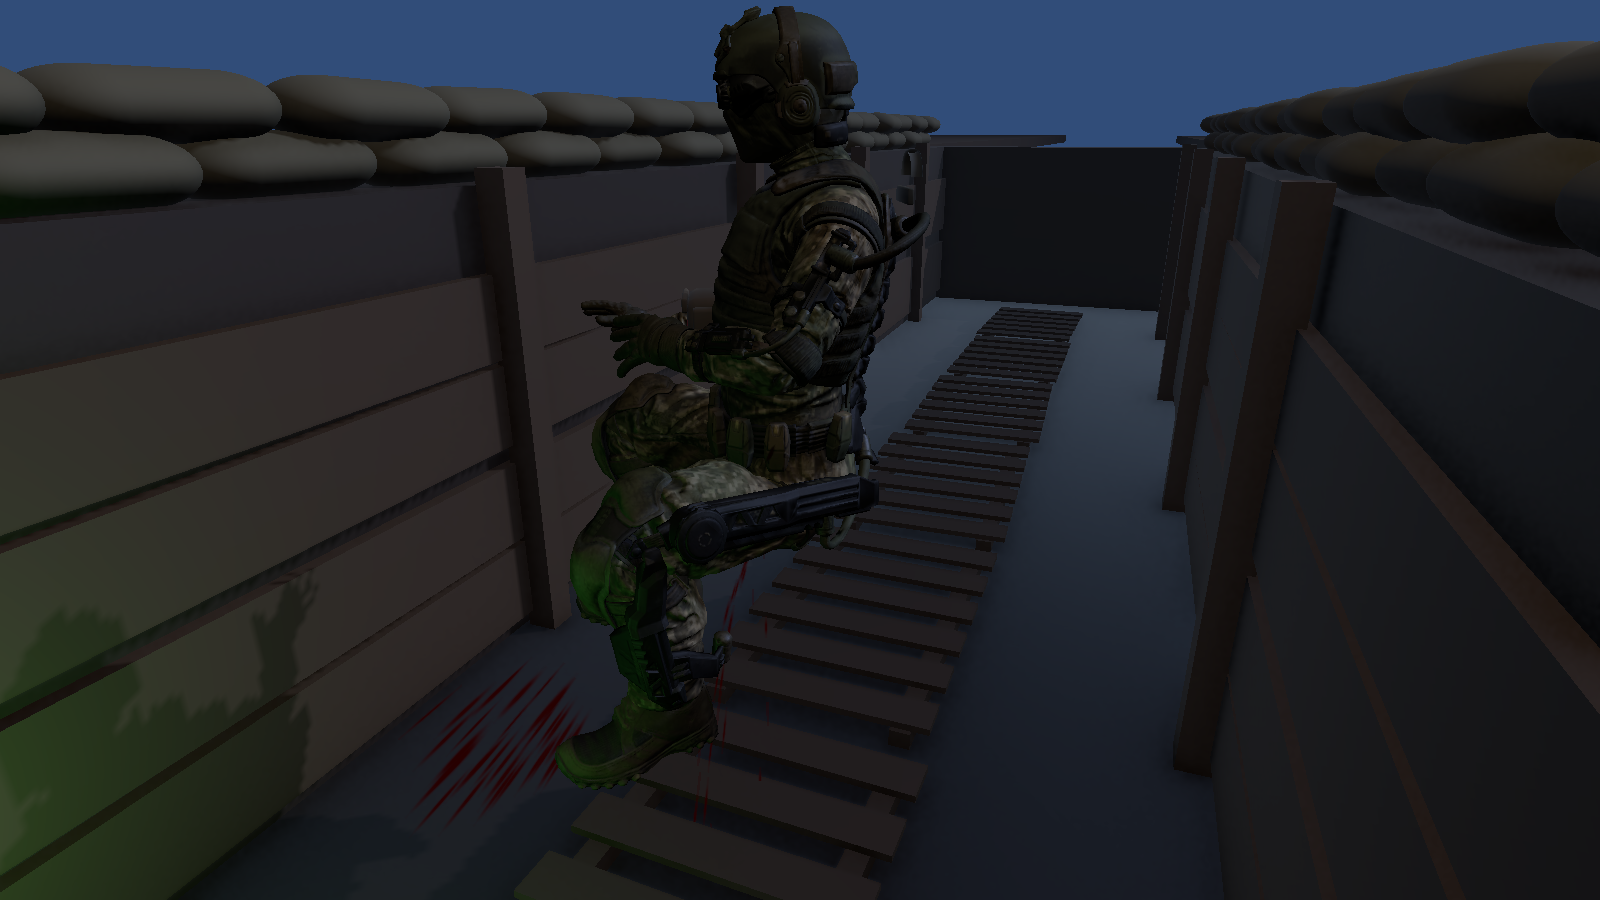
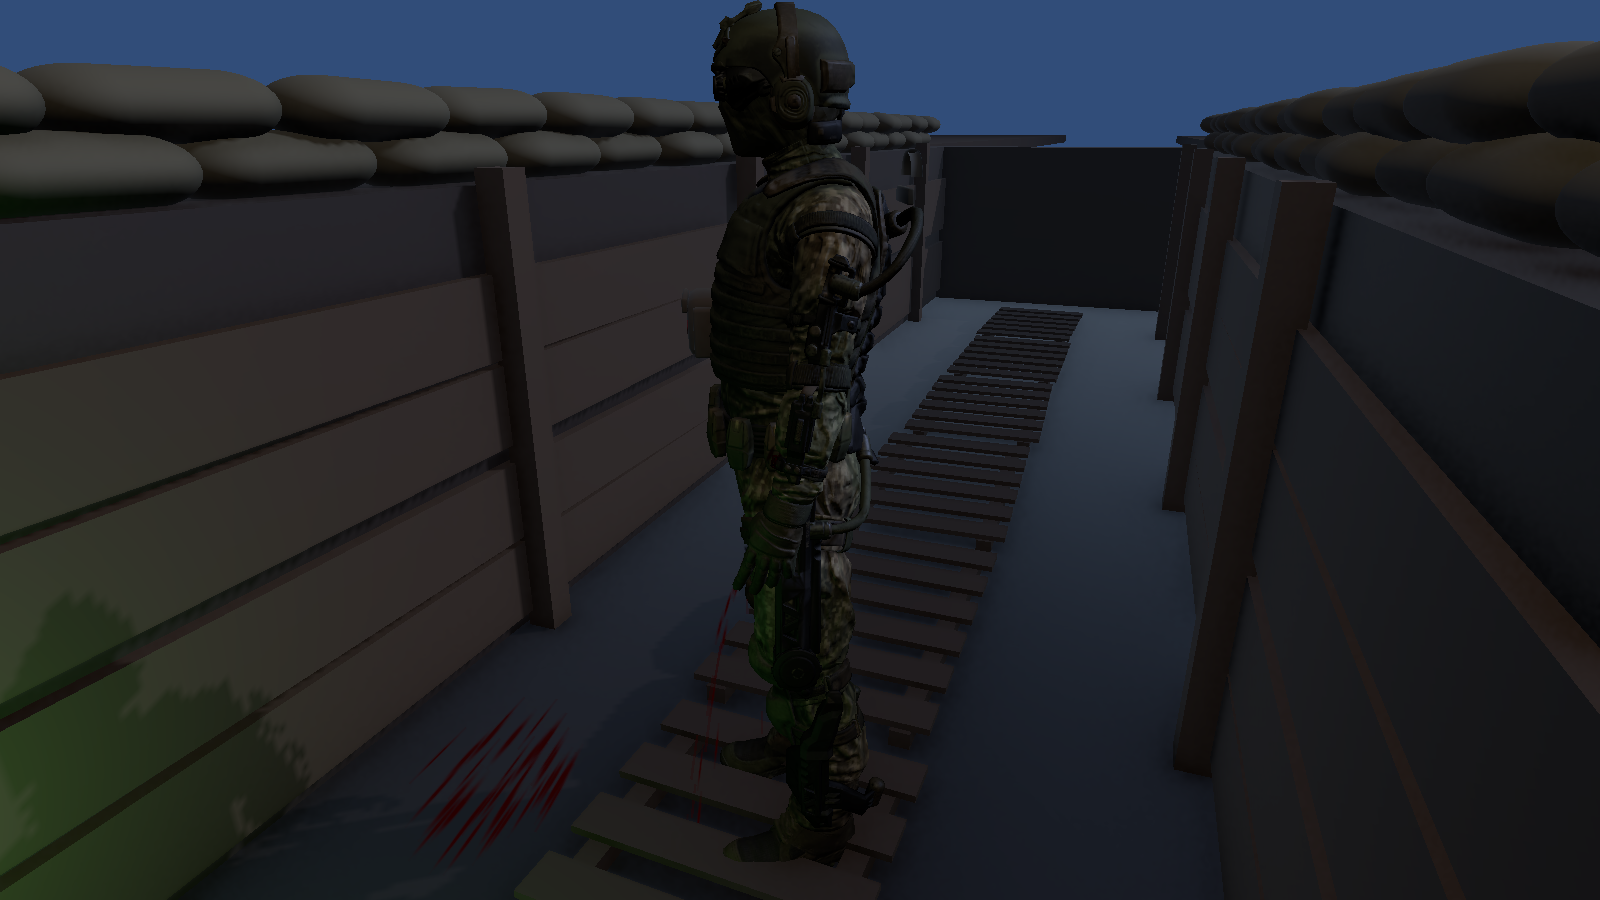
S2 done: credible wound close-up (skinning/placement fixes), screenshots, progress, done marker

Changed region(s): [[0.25, 0.0933, 0.5938, 0.9333], [0.4375, 0.0, 0.5, 0.0311]]

diff --git a/Assets/Editor/CasualtyDemo.cs b/Assets/Editor/CasualtyDemo.cs
@@ -51,6 +51,8 @@ namespace FieldMedic.EditorTools
 
             c.EnsurePatient();
             c.rig.Init();
+            // edit-mode rendering: make skinned meshes use the bone pose we just stepped, not a cached one
+            foreach (var sk in c.GetComponentsInChildren<SkinnedMeshRenderer>()) sk.forceMatrixRecalculationPerRender = true;
             var anim = c.animator;
             anim.Rebind();
             c.SetPose(CasualtyPose.CrouchIdle, true);
@@ -85,7 +87,10 @@ namespace FieldMedic.EditorTools
             c.simulationSpeed = 12f;
             Step(c, 5.5f, true);
             c.simulationSpeed = 1f;
-            Step(c, 1.0f, true);
+            // shock deepening: he stops writhing, legs out, fast shallow breathing
+            c.poseHold = 999f;
+            c.SetPose(CasualtyPose.LyingBreathless, true);
+            Step(c, 2.5f, true);
             Debug.Log($"[FMVR] demo: pose={c.CurrentPose} loss={c.Patient.bloodLostMl:F0}ml ({c.Patient.LossFraction:P0}) HR={c.Patient.HeartRate:F0} " +
                       $"SBP={c.Patient.SystolicBP:F0} AVPU={c.Patient.AVPU} pain={c.Pain.level:F2} jets={thigh.JetBursts} pools={c.PoolManager.Pools.Count} poolVol={c.PoolManager.TotalVolumeMl:F0}");
 
@@ -95,9 +100,25 @@ namespace FieldMedic.EditorTools
             Vector3 n = thigh.transform.forward;
             Vector3 side = Vector3.Cross(n, Vector3.up).normalized;
             // from the player's side of the trench, above and a little toward the feet
+            var fa = c.rig.Bone(HumanBodyBones.RightUpperLeg).position; var fb = c.rig.Bone(HumanBodyBones.RightLowerLeg).position;
+            var ax = (fb - fa).normalized; var rl = w - fa;
+            Debug.Log($"[FMVR] demo wound radial from femur axis = {(rl - ax * Vector3.Dot(rl, ax)).magnitude:F3} m");
             Debug.Log($"[FMVR] demo wound at {w:F2} normal {n:F2} soak r={thigh.SoakRadius:F2} flow={thigh.FlowMlPerSec:F1}ml/s sphere0={c.soak.Spheres[0]:F2}");
             var probe = BakeBodyCollider(c);
-            shots += Shot("s2_erlan_wounded", BestView(w, n, 0.7f), w, 42f, template);
+            {
+                var pm = probe.GetComponent<MeshCollider>().sharedMesh; var tr = probe.transform;
+                float md = float.MaxValue; foreach (var v in pm.vertices) md = Mathf.Min(md, Vector3.Distance(tr.TransformPoint(v), w));
+                Debug.Log($"[FMVR] demo wound distance to nearest skinned vertex = {md:F3} m");
+            }
+            // the flare drifts over: brighter for the close-up
+            flareGo.transform.position = w + new Vector3(-1.2f, 3.2f, -0.6f);
+            flare.intensity = 4.5f;
+            var cp = BestView(w, n, 0.85f);
+            shots += Shot("s2_erlan_wounded", cp, w + Vector3.down * 0.04f, 40f, template);
+            Vector3 nh = Vector3.ProjectOnPlane(n, Vector3.up).normalized;
+            shots += Shot("s2_erlan_wounded_top", InTrench(w + Vector3.up * 0.85f + nh * 0.25f), w, 45f, template);
+            flare.intensity = 3.2f;
+            flareGo.transform.position = c.transform.position + new Vector3(-2f, 5.5f, -1.5f);
             Object.DestroyImmediate(probe);
             var smr = c.rig.bodyRenderer;
             Debug.Log($"[FMVR] demo body mats: {string.Join(",", smr.sharedMaterials.Select(m => m.name + ":" + m.shader.name))} hasMPB={smr.HasPropertyBlock()}");

diff --git a/Assets/Scripts/Runtime/Casualty/CasualtyRig.cs b/Assets/Scripts/Runtime/Casualty/CasualtyRig.cs
@@ -228,11 +228,12 @@ namespace FieldMedic.Casualty
             if (shared != null && shared.isReadable) weights = shared.boneWeights;
             if (weights != null && weights.Length != verts.Length) weights = null;
             var m = bodyRenderer.transform.localToWorldMatrix;
-            float best = float.MaxValue; int bi = -1;
+            float best = float.MinValue; int bi = -1;
             float slab = Mathf.Max(0.03f, (b - a).magnitude * 0.08f);
             for (int i = 0; i < verts.Length; i++)
             {
-                if (weights != null && !allowed.Contains(weights[i].boneIndex0)) continue;
+                // rigidly skinned to this bone only: the point then stays on the surface in every pose
+                if (weights != null && (!allowed.Contains(weights[i].boneIndex0) || weights[i].weight0 < 0.8f)) continue;
                 Vector3 w = m.MultiplyPoint3x4(verts[i]);
                 Vector3 rel = w - c;
                 float ax = Vector3.Dot(rel, axis);
@@ -240,10 +241,10 @@ namespace FieldMedic.Casualty
                 Vector3 radial = rel - axis * ax;
                 float t = Vector3.Dot(radial, dirWorld);
                 if (t <= 0f || radial.magnitude > 0.2f) continue;
-                // closest to the ray from the bone along dir, prefer the outermost layer
+                // outermost vertex inside a narrow cylinder around the ray (the model has inner layers)
                 float perp = (radial - dirWorld * t).magnitude;
-                float score = perp - 0.3f * t;
-                if (score < best) { best = score; bi = i; }
+                if (perp > 0.035f) continue;
+                if (t > best) { best = t; bi = i; }
             }
             if (bi < 0) return false;
             point = m.MultiplyPoint3x4(verts[bi]);

diff --git a/Assets/Scripts/Runtime/Casualty/CasualtyController.cs b/Assets/Scripts/Runtime/Casualty/CasualtyController.cs
@@ -106,8 +106,8 @@ namespace FieldMedic.Casualty
             switch (r)
             {
                 // inner (medial, slightly anterior) thigh: femoral artery territory
-                case BodyRegion.ThighR: return P(HumanBodyBones.RightUpperLeg, HumanBodyBones.RightLowerLeg, 0.38f, k => (-k.BodyRight * 0.8f + LegAnterior(k, false)).normalized);
-                case BodyRegion.ThighL: return P(HumanBodyBones.LeftUpperLeg, HumanBodyBones.LeftLowerLeg, 0.38f, k => (k.BodyRight * 0.8f + LegAnterior(k, true)).normalized);
+                case BodyRegion.ThighR: return P(HumanBodyBones.RightUpperLeg, HumanBodyBones.RightLowerLeg, 0.45f, k => (-k.BodyRight * 0.8f + LegAnterior(k, false)).normalized);
+                case BodyRegion.ThighL: return P(HumanBodyBones.LeftUpperLeg, HumanBodyBones.LeftLowerLeg, 0.45f, k => (k.BodyRight * 0.8f + LegAnterior(k, true)).normalized);
                 case BodyRegion.ShinR: return P(HumanBodyBones.RightLowerLeg, HumanBodyBones.RightFoot, 0.45f, k => LegAnterior(k, false));
                 case BodyRegion.ShinL: return P(HumanBodyBones.LeftLowerLeg, HumanBodyBones.LeftFoot, 0.45f, k => LegAnterior(k, true));
                 case BodyRegion.ForearmL: return P(HumanBodyBones.LeftLowerArm, HumanBodyBones.LeftHand, 0.5f, k => k.BodyUp);

diff --git a/Assets/Tests/PlayMode/CasualtyTests.cs b/Assets/Tests/PlayMode/CasualtyTests.cs
@@ -111,7 +111,7 @@ namespace FieldMedic.Tests
             float along = Vector3.Dot(rel, axis) / Vector3.Distance(knee.position, femur.position);
             float radial = (rel - axis * Vector3.Dot(rel, axis)).magnitude;
             Assert.That(along, Is.InRange(0.15f, 0.65f));
-            Assert.That(radial, Is.InRange(0.03f, 0.17f));
+            Assert.That(radial, Is.InRange(0.03f, 0.13f), "on the thigh surface, not floating beside it");
             // medial side: toward the left leg
             var other = rig.Bone(HumanBodyBones.LeftUpperLeg);
             Assert.That(Vector3.Dot(site.transform.position - femur.position, other.position - femur.position), Is.GreaterThan(0f));

diff --git a/docs/PROGRESS.md b/docs/PROGRESS.md
@@ -35,3 +35,9 @@
 - Audio: 114 Freesound clips (`tools/fetch_sounds.ps1`, attributed), 50 TTS voice lines RU/KZ (`tools/tts_voice.ps1` + `voice_post.py`: Irina pitched to ~120 Hz + strain), `docs/VOICE_SCRIPT.md`.
 - Tests: EditMode 22/22, PlayMode 16/16.
 - Workflow: `Invoke-UnityBatch -Method FieldMedic.EditorTools.CasualtyAssetBuilder.BuildAll` → `MainSceneBuilder.Build` → `CasualtyDemo.CaptureShots` (edit-mode simulation, screenshots s2_*).
+
+## 10.10 07:30 — S2 casualty DONE
+- Screenshots: `docs/screens/s2_erlan_idle.png` (crouched at the parapet), `s2_erlan_fall.png` (VOG blast, arterial spray hits the wall), `s2_erlan_wounded.png` (+ `_top`: soaked glossy trouser leg, ragged wound, pulsing jet, pool), `s2_erlan_wide.png`.
+- Gotchas found: (1) in edit-mode batch rendering skinned meshes lag the stepped bone pose → `forceMatrixRecalculationPerRender` in the demo; (2) the Swat mesh has inner layers + crossed legs → wound placement = outermost vertex rigidly skinned (≥80%) to the limb bone inside a narrow cylinder; thigh anterior from knee bend; (3) `GetComponent() ?? Add` fake-null trap.
+- Known issues / next: no face (balaclava) so pallor/cyanosis are not visible yet (shader ready via `_SkinMask`); TTS KZ lines are phonetic placeholders (see docs/VOICE_SCRIPT.md); drag handle/IFAK/CAT are rigid on bones (S3 will make CAT grabbable — CAT children are separate objects); breath loop clips are not seamless loops; lying clip transitions can pop slightly (no root motion by design).
+- S3 hooks: `CasualtyController.ApplyTourniquet/Handle/AddWound/Hit`, `CasualtyRig.SetLimbIK/Part(region)/Flinch`, `BloodOnHands` on both hands, `WoundSite.Active`.

diff --git a/docs/SUPERVISOR_NOTES.md b/docs/SUPERVISOR_NOTES.md
@@ -1,0 +1,5 @@
+# Supervisor review notes (night supervisor, read and address in the relevant stage)
+
+## 06:30 review of docs/screens
+- s2_erlan_wounded.png: casualty, gear and blood stream look good. The blood-soaked trouser area has bright GREEN specular highlights (probably the green chemlight/point light or a reflection probe reflecting on a very glossy blood material). Blood on cloth should be dark, mostly matte (smoothness ~0.3-0.45 when wet, lower when soaked into fabric); keep the fresh pool glossy but tint the light/reflection neutral. Fix in S2/S3 or S7.
+- s1_trench.png: the trench is still a flat greybox (untextured planks, uniform grey sandbags, flat ground, empty dark sky). S4 must make it read as a real night trench: mud/soil texture with wet normal map, wood grain on revetment, sandbag cloth texture with variation, dirt on duckboards, debris, wires, puddles, sky with faint stars/cloud glow + distant flare/fire light on the horizon, fog/haze. This is what the user sees first - top priority for the WOW effect.

diff --git a/CLAUDE.md b/CLAUDE.md
@@ -46,3 +46,7 @@ Read before any work: this file, `docs/GDD.md` (game design — the source of tr
 ## Disk guard (added by night supervisor 05:30)
 An Android IL2CPP build leaves ~8 GB in Library\Bee (Bee\Android, Bee\artifacts\Android, Bee\artifacts\objcopy_*). Before any heavy step check free space on C:. If it is below 5 GB and no Unity process is running, delete those Bee Android folders (the next build becomes a full rebuild, ~20 min). Never build more often than needed; prefer EditMode/PlayMode tests and editor screenshots for iteration.
 
+
+## Supervisor notes
+Read docs/SUPERVISOR_NOTES.md at the start of every stage and address the items that belong to your stage.
+
